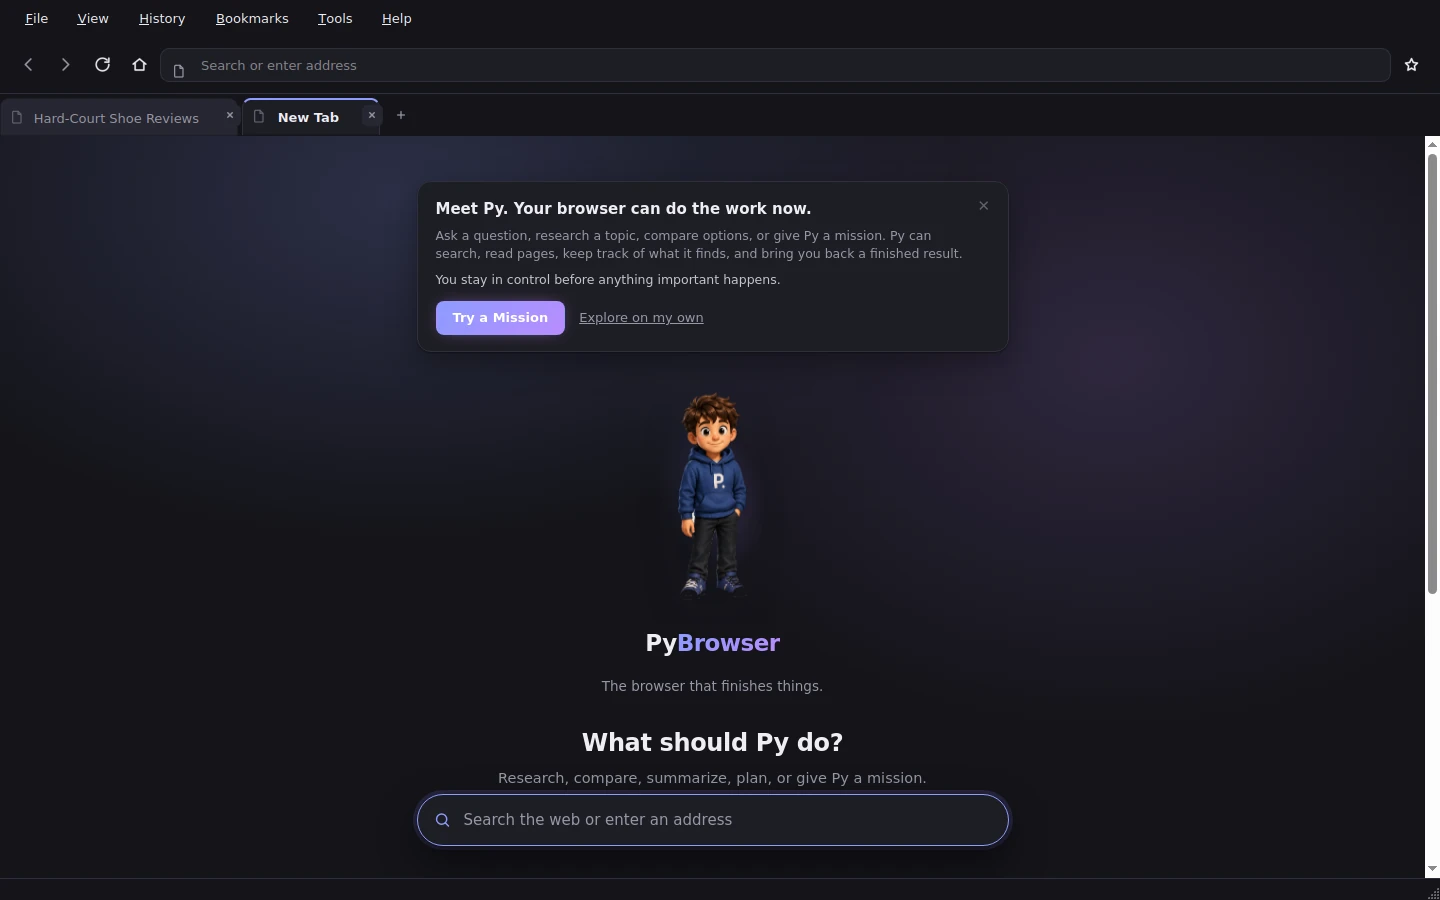
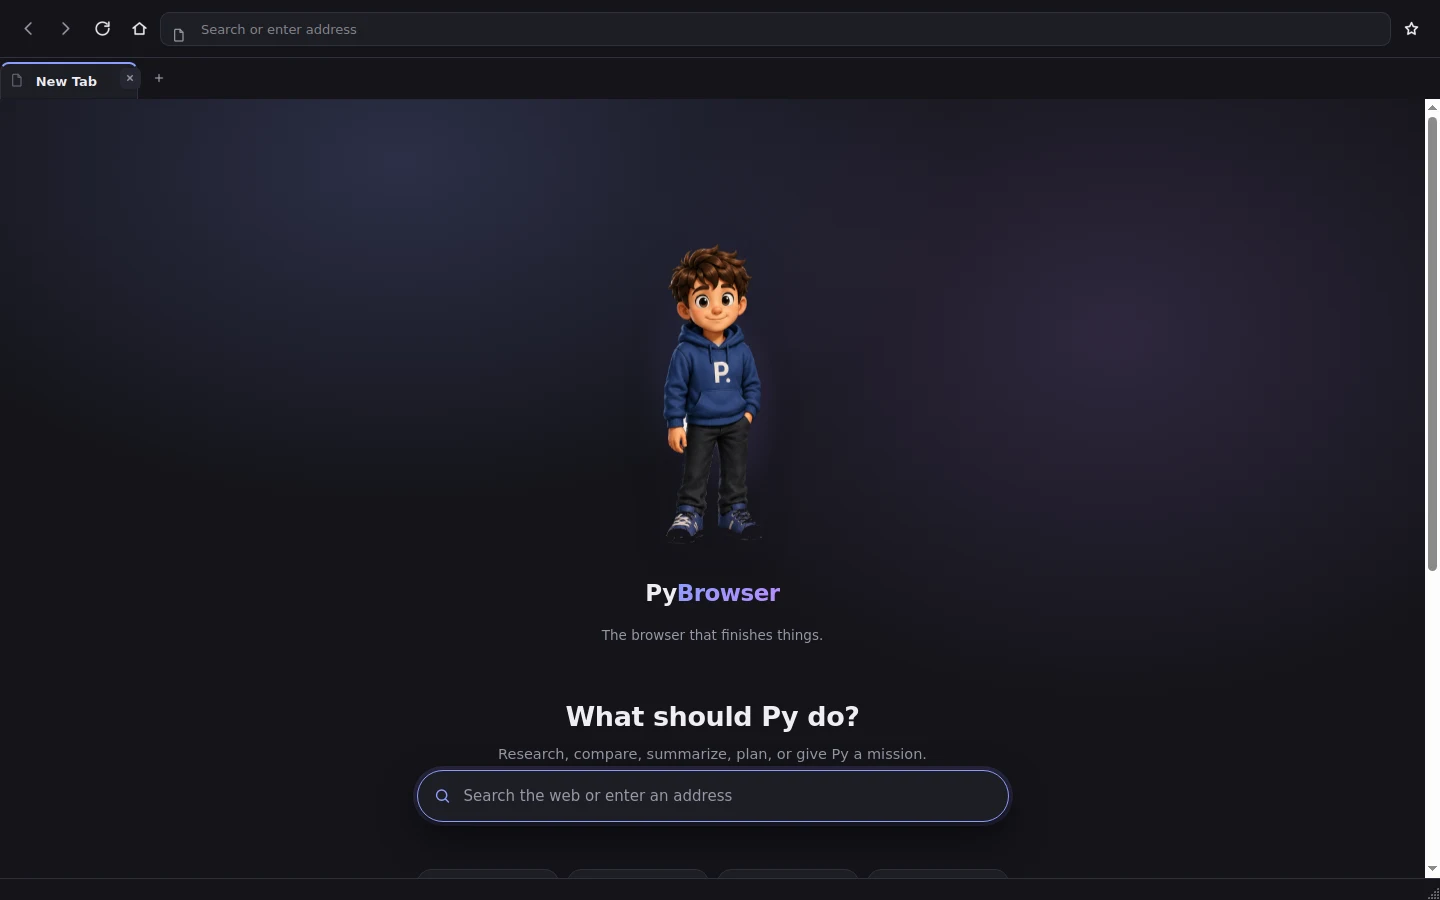
Website: replace early-access copy with real downloads, refresh hero shots
Real Windows and macOS artifacts now exist (see the packaging commits on
this branch), so the site no longer needs to tell visitors to build from
source. Renamed the #early-access section/anchor to #download and rewrote
its copy and CTAs into real Windows/macOS download buttons pointing at
stable /releases/latest/download/ asset URLs (not a hardcoded Actions run
ID, which breaks the moment a new run replaces it) - macOS gets a visibly
softer "Mac preview - test build" label rather than the same plain
"Download" as Windows, since Windows has been manually installed and used
on a real machine and macOS has only passed its automated CI checks so
far. Both platform rows and a short note under the buttons say plainly
that these are unsigned/not-yet-notarized preview builds. The About
section's status line changed from "Early Access" to "Preview Release"
to match, rather than mixing both terms across the page.

Also regenerated assets/screenshots/hero.webp and hero-dark.webp from the
actual corrected app (via a small script built on scripts/ui_shots.py,
launching the real MainWindow with onboarding pre-dismissed) - the
previous versions were captured before the new-tab background-seam fix
in app/browser/newtab.py and, more importantly, keeping stale marketing
screenshots after a visible bug fix is exactly what was asked not to do.

Claude-Session: https://claude.ai/code/session_01EJvrakr1tKaP86UDhAop59

diff --git a/website/index.html b/website/index.html
@@ -56,7 +56,7 @@
         <svg class="icon-moon" viewBox="0 0 24 24" width="18" height="18" aria-hidden="true"><path fill="currentColor" d="M20.4 14.7A8.6 8.6 0 1 1 9.3 3.6a7 7 0 0 0 11.1 11.1Z"/></svg>
       </button>
       <a class="btn btn-ghost nav-github" href="https://github.com/Jeremydabuilder/Ai-Browser-Test" target="_blank" rel="noopener">GitHub</a>
-      <a class="btn btn-primary" href="#early-access">Get Early Access</a>
+      <a class="btn btn-primary" href="#download">Download</a>
     </div>
 
     <button class="nav-burger" id="nav-burger" type="button" aria-label="Open menu" aria-expanded="false" aria-controls="mobile-nav">
@@ -71,7 +71,7 @@
     <a href="#technology">Technology</a>
     <a href="#about">About</a>
     <a href="https://github.com/Jeremydabuilder/Ai-Browser-Test" target="_blank" rel="noopener">GitHub</a>
-    <a class="btn btn-primary" href="#early-access">Get Early Access</a>
+    <a class="btn btn-primary" href="#download">Download</a>
   </div>
 </header>
 
@@ -86,7 +86,7 @@
       <p class="hero-sub">Browse normally. Ask Py anything. Give it research and
         multi-step jobs when you don't want to do them yourself.</p>
       <div class="hero-ctas">
-        <a class="btn btn-primary btn-lg" href="#early-access">Get Early Access</a>
+        <a class="btn btn-primary btn-lg" href="#download">Download</a>
         <a class="btn btn-ghost btn-lg" href="#product">See how it works</a>
       </div>
       <p class="hero-status"><span class="status-dot"></span> In active development — independent project</p>
@@ -472,27 +472,32 @@
         complete work directly across the web.</p>
       <p>PyBrowser is an independent software project, built in Python and
         currently in active development.</p>
-      <p class="status-badge">Early Access &middot; In active development</p>
+      <p class="status-badge">Preview Release &middot; In active development</p>
     </div>
   </div>
 </section>
 
-<!-- ============================= EARLY ACCESS ============================= -->
-<section class="section" id="early-access">
+<!-- ============================= DOWNLOAD ============================= -->
+<section class="section" id="download">
   <div class="wrap">
     <div class="access-card">
       <div class="access-copy">
-        <p class="kicker">Try it</p>
-        <h2>Get Early Access</h2>
-        <p>PyBrowser doesn't have a packaged installer yet. In the meantime,
-          it runs from source on Windows, macOS, and Linux.</p>
+        <p class="kicker">Download</p>
+        <h2>Get PyBrowser</h2>
+        <p>PyBrowser 0.1.0 is a preview release. Windows has been installed
+          and used on a real machine; the macOS build passed its automated
+          checks and is still pending a full manual pass.</p>
         <div class="hero-ctas">
-          <a class="btn btn-primary btn-lg" href="https://github.com/Jeremydabuilder/Ai-Browser-Test" target="_blank" rel="noopener">View on GitHub</a>
+          <a class="btn btn-primary btn-lg" href="https://github.com/Jeremydabuilder/Ai-Browser-Test/releases/latest/download/PyBrowser-Windows-Setup-0.1.0.exe">Download for Windows</a>
+          <a class="btn btn-ghost btn-lg" href="https://github.com/Jeremydabuilder/Ai-Browser-Test/releases/latest/download/PyBrowser-macOS-0.1.0.dmg">Mac preview — test build</a>
         </div>
+        <p class="download-note">Both are unsigned preview builds — see the
+          release notes for what your OS will show and how to open them.
+          Prefer to build it yourself? <a href="https://github.com/Jeremydabuilder/Ai-Browser-Test" target="_blank" rel="noopener">View on GitHub</a>.</p>
       </div>
       <div class="access-platforms">
-        <div class="platform-row"><span>Windows</span><span class="tag">Runs from source</span></div>
-        <div class="platform-row"><span>macOS</span><span class="tag">Runs from source</span></div>
+        <div class="platform-row"><span>Windows 10/11</span><span class="tag">Unsigned preview build</span></div>
+        <div class="platform-row"><span>macOS</span><span class="tag">Unsigned · not yet notarized</span></div>
         <div class="platform-row"><span>Linux</span><span class="tag">Runs from source</span></div>
       </div>
     </div>
@@ -506,7 +511,7 @@
     <p class="eyebrow eyebrow--light"><img src="assets/brand/pi-mark.svg" class="eyebrow-mark eyebrow-mark--light" alt="" width="16" height="16"> PyBrowser</p>
     <h2>So — what should I do?</h2>
     <p class="final-sub">Browse normally. Give Py the rest.</p>
-    <a class="btn btn-primary btn-lg" href="#early-access">Get Early Access</a>
+    <a class="btn btn-primary btn-lg" href="#download">Download</a>
   </div>
 </section>
 

diff --git a/website/css/style.css b/website/css/style.css
@@ -659,6 +659,9 @@ h2 {
   align-items: center;
 }
 .access-copy p { color: var(--muted); margin: var(--space-3) 0 var(--space-4); max-width: 46ch; }
+.download-note { font-size: 13px; margin-top: var(--space-4) !important; max-width: 48ch; }
+.download-note a { color: var(--muted); text-decoration: underline; }
+.download-note a:hover { color: var(--accent); }
 .access-platforms { display: flex; flex-direction: column; gap: var(--space-2); }
 .platform-row {
   display: flex; justify-content: space-between; align-items: center;
